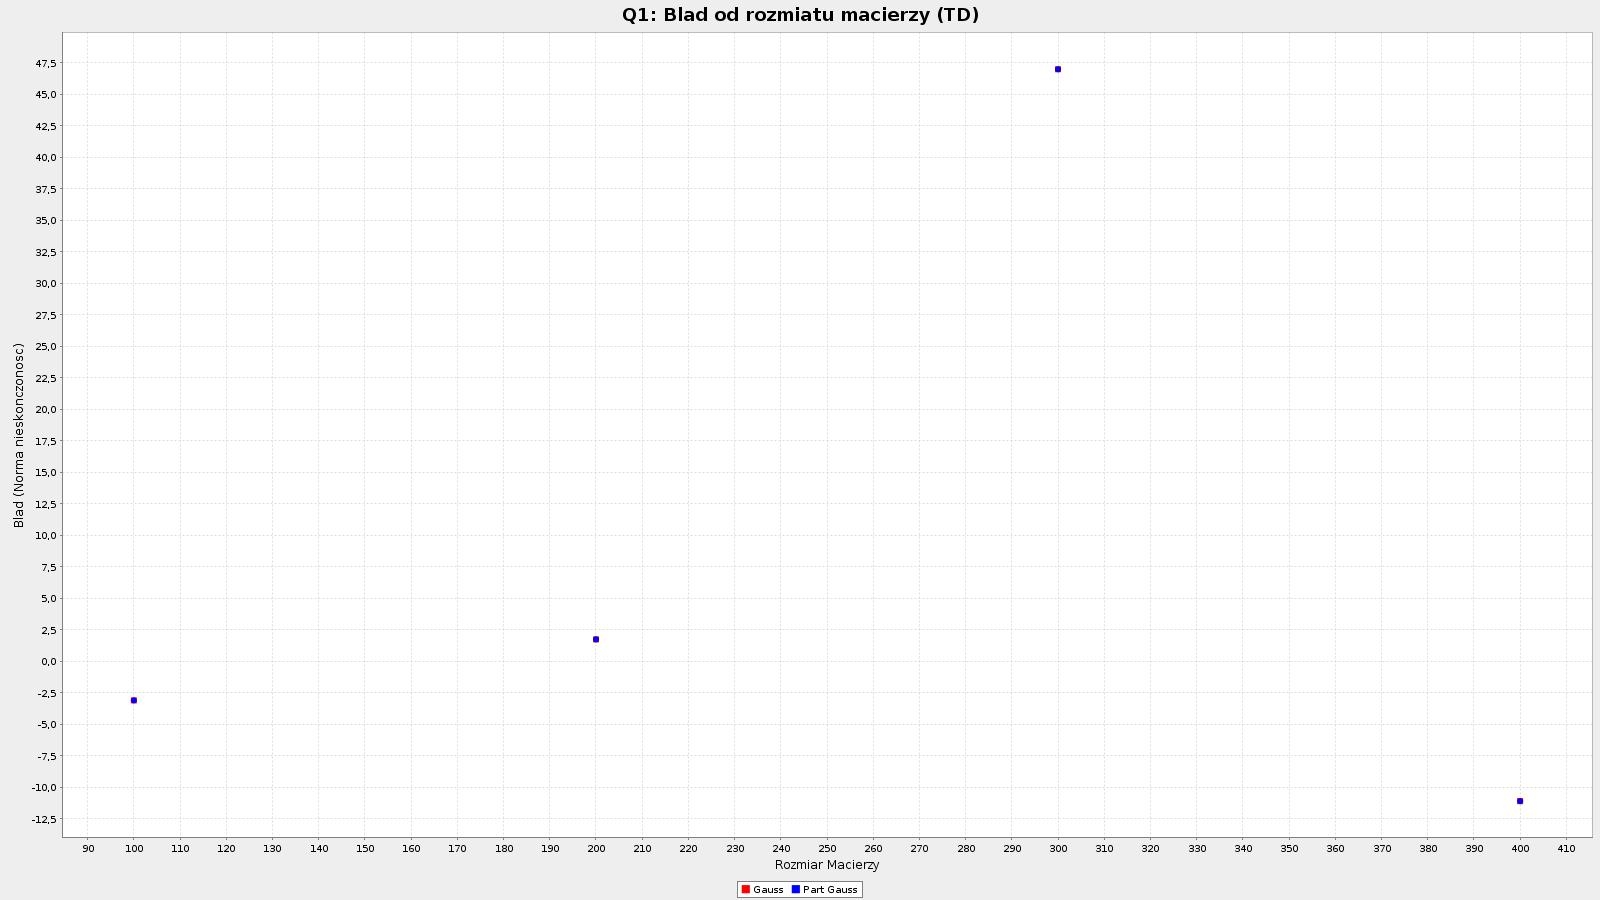
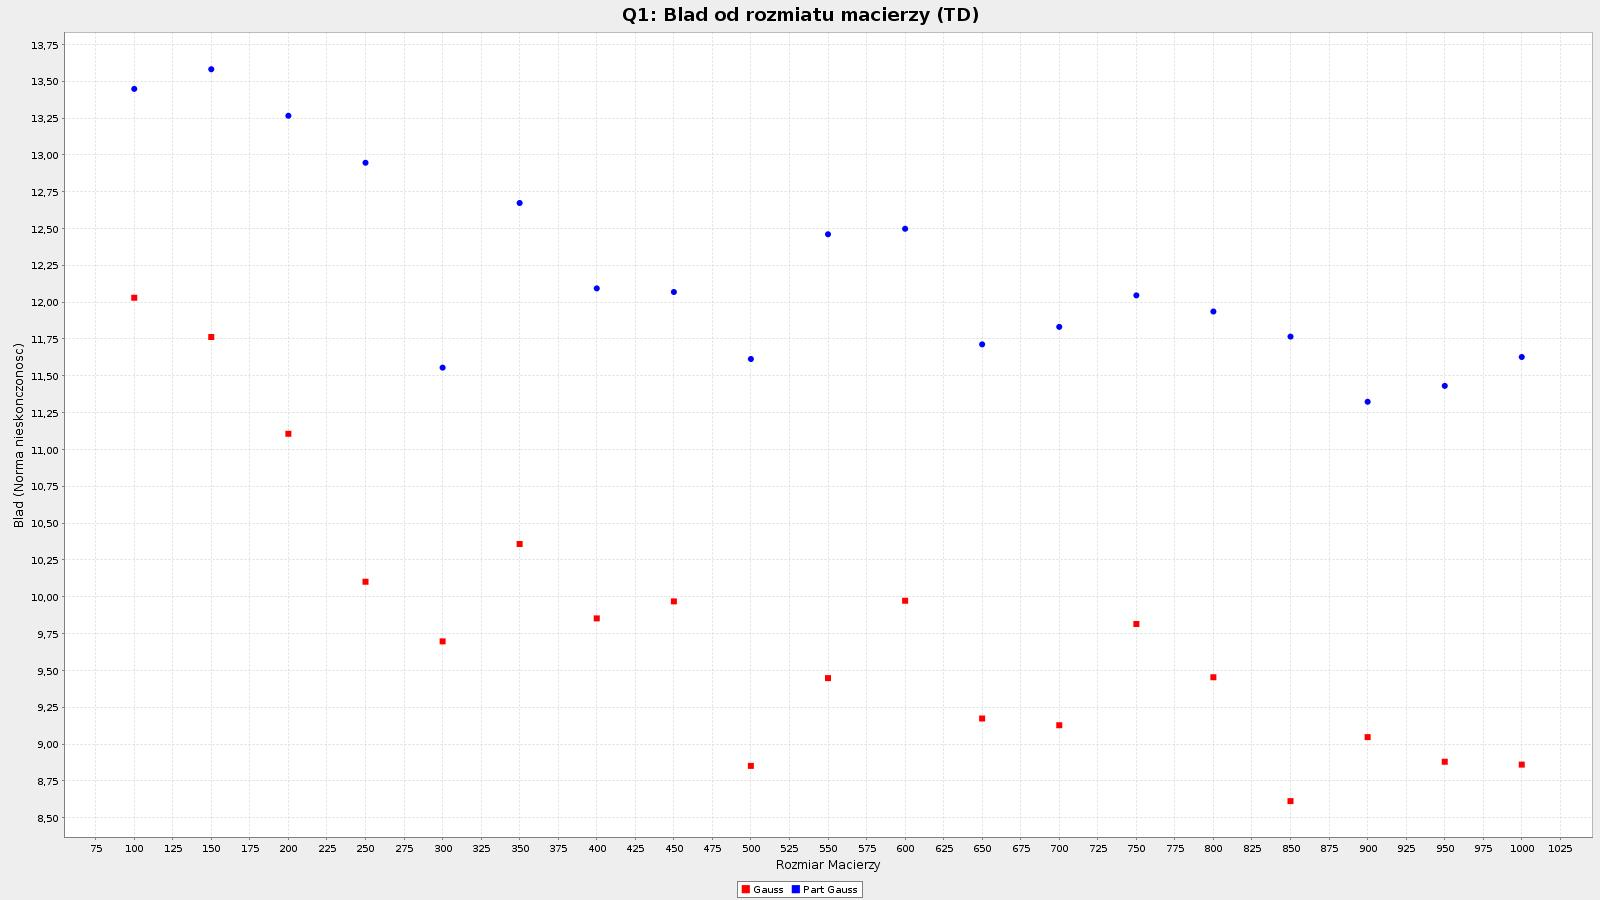
kd-fix-blad

diff --git a/projekt2/src/Hypothesis.java b/projekt2/src/Hypothesis.java
@@ -1,5 +1,7 @@
 import org.jfree.data.xy.XYSeries;
 import org.jfree.data.xy.XYSeriesCollection;
+import org.omg.CORBA.MARSHAL;
+
 import java.time.*;
 import java.util.Date;
 
@@ -163,7 +165,7 @@ public class Hypothesis {
      * podwójnej precyzji (TD)?
      */
     public static void Q1(){
-        int sizes[] = {20, 40, 60, 80, 100};
+        int size = 1000;
         ANumber resultOfGauss[];
         ANumber resultOfPartGauss[];
         double normOfGauss;
@@ -172,21 +174,24 @@ public class Hypothesis {
         XYSeries partGauss = new XYSeries("Part Gauss");
 
 
-        for(int i : sizes){
+        for(int i = 100; i<= size; i += 50){
             Randomizer.resetRandomizer();
-            MyMatrix matrix = new MyMatrix<WrappedFloat>(i,i,WrappedDouble.class);
+            MyMatrix matrix = new MyMatrix<WrappedDouble>(i,i,WrappedDouble.class);
             matrix.fillMatrixAndVector();
-            resultOfGauss = matrix.gauss();
+            matrix.gauss();
+            resultOfGauss = matrix.mulMatrixVector();
             normOfGauss = matrix.getNormInf(resultOfGauss, matrix.getSavedVector());
 
-            Randomizer.resetRandomizer();
-            matrix = new MyMatrix<WrappedFloat>(i,i,WrappedDouble.class);
-            matrix.fillMatrixAndVector();
-            resultOfPartGauss = matrix.partChoiceGauss();
-            normOfPartGauss = matrix.getNormInf(resultOfPartGauss, matrix.getSavedVector());
 
-            gauss.add(i,normOfGauss);
-            partGauss.add(i,normOfPartGauss);
+            Randomizer.resetRandomizer();
+            MyMatrix matrix2 = new MyMatrix<WrappedDouble>(i,i,WrappedDouble.class);
+            matrix2.fillMatrixAndVector();
+            matrix2.partChoiceGauss();
+            resultOfPartGauss = matrix2.mulMatrixVector();
+            normOfPartGauss = matrix2.getNormInf(resultOfPartGauss, matrix2.getSavedVector());
+
+            gauss.add(i,Math.abs(Math.log10(normOfGauss)));
+            partGauss.add(i,Math.abs(Math.log10(normOfPartGauss)));
         }
         XYSeriesCollection xySeriesCollection = new XYSeriesCollection(gauss);
         xySeriesCollection.addSeries(partGauss);
@@ -195,7 +200,7 @@ public class Hypothesis {
                 "Q1",
                 "Q1: Blad od rozmiatu macierzy (TD)",
                 "Rozmiar Macierzy",
-                "Blad (Norma nieskonczonosc)"
+                "Blad (Norma nieskonczonosc) skala logarytmiczna"
         );
     }
 
@@ -324,7 +329,7 @@ public class Hypothesis {
 
         //gauss
         Randomizer.resetRandomizer();
-        MyMatrix matrix = new MyMatrix<WrappedFloat>(150,150,type);
+        MyMatrix matrix = new MyMatrix<WrappedFloat>(100,100,type);
         matrix.fillMatrixAndVector();
         timestampBefore = System.currentTimeMillis();
         matrix.gauss();
@@ -336,7 +341,7 @@ public class Hypothesis {
 
         //Part gauss
         Randomizer.resetRandomizer();
-        matrix = new MyMatrix<WrappedFloat>(150,150,type);
+        matrix = new MyMatrix<WrappedFloat>(100,100,type);
         matrix.fillMatrixAndVector();
         timestampBefore = System.currentTimeMillis();
         matrix.partChoiceGauss();
@@ -347,7 +352,7 @@ public class Hypothesis {
         E1FloatP = deltaSeconds;
         //Full gaus
         Randomizer.resetRandomizer();
-        matrix = new MyMatrix<WrappedFloat>(150,150,type);
+        matrix = new MyMatrix<WrappedFloat>(100,100,type);
         matrix.fillMatrixAndVector();
         timestampBefore = System.currentTimeMillis();
         matrix.fulChoiceGauss();
@@ -366,7 +371,7 @@ public class Hypothesis {
 
         //gauss
         Randomizer.resetRandomizer();
-        MyMatrix matrix = new MyMatrix<WrappedDouble>(150,150,type);
+        MyMatrix matrix = new MyMatrix<WrappedDouble>(100,100,type);
         matrix.fillMatrixAndVector();
         timestampBefore = System.currentTimeMillis();
         matrix.gauss();
@@ -378,7 +383,7 @@ public class Hypothesis {
 
         //Part gauss
         Randomizer.resetRandomizer();
-        matrix = new MyMatrix<WrappedDouble>(150,150,type);
+        matrix = new MyMatrix<WrappedDouble>(100,100,type);
         matrix.fillMatrixAndVector();
         timestampBefore = System.currentTimeMillis();
         matrix.partChoiceGauss();
@@ -390,7 +395,7 @@ public class Hypothesis {
 
         //Full gaus
         Randomizer.resetRandomizer();
-        matrix = new MyMatrix<WrappedDouble>(150,150,type);
+        matrix = new MyMatrix<WrappedDouble>(100,100,type);
         matrix.fillMatrixAndVector();
         timestampBefore = System.currentTimeMillis();
         matrix.fulChoiceGauss();
@@ -409,7 +414,7 @@ public class Hypothesis {
 
         //gauss
         Randomizer.resetRandomizer();
-        MyMatrix matrix = new MyMatrix<MyType>(150,150,type);
+        MyMatrix matrix = new MyMatrix<MyType>(100,100,type);
         matrix.fillMatrixAndVector();
         timestampBefore = System.currentTimeMillis();
         matrix.gauss();
@@ -420,7 +425,7 @@ public class Hypothesis {
         E1MyTypeG = deltaSeconds;
         //Part gauss
         Randomizer.resetRandomizer();
-        matrix = new MyMatrix<MyType>(150,150,type);
+        matrix = new MyMatrix<MyType>(100,100,type);
         matrix.fillMatrixAndVector();
         timestampBefore = System.currentTimeMillis();
         matrix.partChoiceGauss();
@@ -432,7 +437,7 @@ public class Hypothesis {
 
         //Full gaus
         Randomizer.resetRandomizer();
-        matrix = new MyMatrix<MyType>(150,150,type);
+        matrix = new MyMatrix<MyType>(100,100,type);
         matrix.fillMatrixAndVector();
         timestampBefore = System.currentTimeMillis();
         matrix.fulChoiceGauss();

diff --git a/projekt2/src/MyMatrix.java b/projekt2/src/MyMatrix.java
@@ -20,7 +20,8 @@ public class MyMatrix<T extends ANumber<T>> {
     private int columns;
     private Class type;
     private T[][] matrix;
-    private T[] vector;
+    public T[][] savedMatrix;
+    public T[] vector;
     private T staticObject;
     private T[] savedVector;
 
@@ -28,9 +29,10 @@ public class MyMatrix<T extends ANumber<T>> {
         this.rows = rows;
         this.columns = columns;
         this.matrix = (T[][]) Array.newInstance(type,rows,columns);
+        this.savedMatrix = (T[][]) Array.newInstance(type,rows,columns);;
         this.type = type;
         this.vector = (T[]) Array.newInstance(type, rows);
-        this.savedVector = vector.clone();
+        this.savedVector =  (T[]) Array.newInstance(type, rows);
         try{
             this.staticObject = (T) TypeFabric.CreateNumber(type);
         } catch (Exception e){
@@ -40,7 +42,13 @@ public class MyMatrix<T extends ANumber<T>> {
         this(rows,columns,type);
         this.matrix = mat;
         this.vector = vec;
-        this.savedVector = vec;
+
+        for(int i = 0;i < rows; i++){
+            this.savedVector[i] = this.vector[i];
+            for(int j = 0;j < rows; j++){
+                this.savedMatrix[i][j] = this.matrix[i][j];
+            }
+        }
     }
 
     public void setDebugVaules(){
@@ -56,10 +64,13 @@ public class MyMatrix<T extends ANumber<T>> {
 
     /***************************************************WYPEŁNANIE MACIERZY *********************************************************/
     public void fillMatrixAndVector() {
+        T createdNumber;
         for (int i = 0; i < this.rows; i++) {
             for (int j = 0; j < this.columns; j++) {
                 try{
-                    this.matrix[i][j] = (T)TypeFabric.CreateNumber(this.type);
+                    createdNumber = (T)TypeFabric.CreateNumber(this.type);
+                    this.matrix[i][j] = createdNumber;
+                    this.savedMatrix[i][j] = createdNumber;
                 } catch (Exception e){
                     e.printStackTrace();
                 }
@@ -67,12 +78,13 @@ public class MyMatrix<T extends ANumber<T>> {
         }
         for(int i = 0;i < this.vector.length; i++){
             try{
-                this.vector[i] = (T)TypeFabric.CreateNumber(this.type);
+                createdNumber = (T)TypeFabric.CreateNumber(this.type);
+                this.vector[i] = createdNumber;
+                this.savedVector[i] = createdNumber;
             } catch (Exception e){
                 e.printStackTrace();
             }
         }
-        savedVector = this.vector.clone();
     }
 
     public  void printMatrix() {
@@ -162,20 +174,20 @@ public class MyMatrix<T extends ANumber<T>> {
 
     public T[] mulMatrixVector(){
         T[] resultVector = (T[]) Array.newInstance(type, vector.length);
-
+        T sum;
+        T product;
+        //System.out.println("A*********");
         for (int i = 0; i < rows; i++) {
-            T sum = (T)staticObject.returnZero();
-            T product = (T)staticObject.returnZero();
+            sum = (T)staticObject.returnZero();
+            product = (T)staticObject.returnZero();
             for (int j = 0; j < rows; j++) {
-                product =(T) matrix[i][j].mul((T)vector[j]);
+                product =(T) savedMatrix[i][j].mul((T)vector[j]);
+                //System.out.println(savedMatrix[i][j] + " " + vector[j] + " " + product);
                 sum = (T) sum.add(product);
             }
             resultVector[i] = sum;
         }
-        //sprawdzenie
-        for(int i=0; i< resultVector.length; i++){
-            System.out.print("| "+resultVector[i]+" |");
-        }
+        //System.out.println("B*********");
         return resultVector;
     }
 
@@ -269,11 +281,11 @@ public class MyMatrix<T extends ANumber<T>> {
     /********************************************METODY DO HIPOTEZ**************************************/
 
     public  double getNormInf(T[] res, T[] vec){
-        T result = (T) res[0].sub(vec[0]).abs();
+        T result = (T) res[0].abs().sub(vec[0].abs()).abs();
         T diff;
         for(int i = 0; i < vec.length; i++){
-            diff = (T) res[i].sub(vec[i]).abs();
-            System.out.println(res[i] +" "+ vec[i]+" "+ diff);
+            diff = (T) res[i].abs().sub(vec[i].abs()).abs();
+            //System.out.println(res[i] +" "+ vec[i]+" "+ diff);
             if(result.abs().compareTo(diff.abs()) == -1){
                 result = diff.abs();
             }

diff --git a/projekt2/src/Tests.java b/projekt2/src/Tests.java
@@ -116,7 +116,10 @@ public class Tests {
         matrix1.printMatrix();
         System.out.println("******");
         matrix1.gauss();
+        WrappedDouble resultOfGauss[] = matrix1.mulMatrixVector();
+        double normOfGauss = matrix1.getNormInf(resultOfGauss, (WrappedDouble[]) matrix1.getSavedVector());
         matrix1.printMatrix();
+        System.out.println("Norma: " + normOfGauss);
     }
     public static void testPartGauss(){
         WrappedDouble ma[][] = new WrappedDouble[4][4];

diff --git a/projekt2/src/Main.java b/projekt2/src/Main.java
@@ -5,13 +5,13 @@ public class Main {
         out.println("Lucyna Zielezińska & Kacper Dondziak");
 
 
-        Tests.testgauss();
+        /*Tests.testgauss();
         System.out.println("****************************");
         Tests.testPartGauss();
         System.out.println("****************************");
-        Tests.testFullGauss();
-
-
+        Tests.testFullGauss();*/
+       // Hypothesis.E1();
+        Hypothesis.Q1();
 
     }
 }
